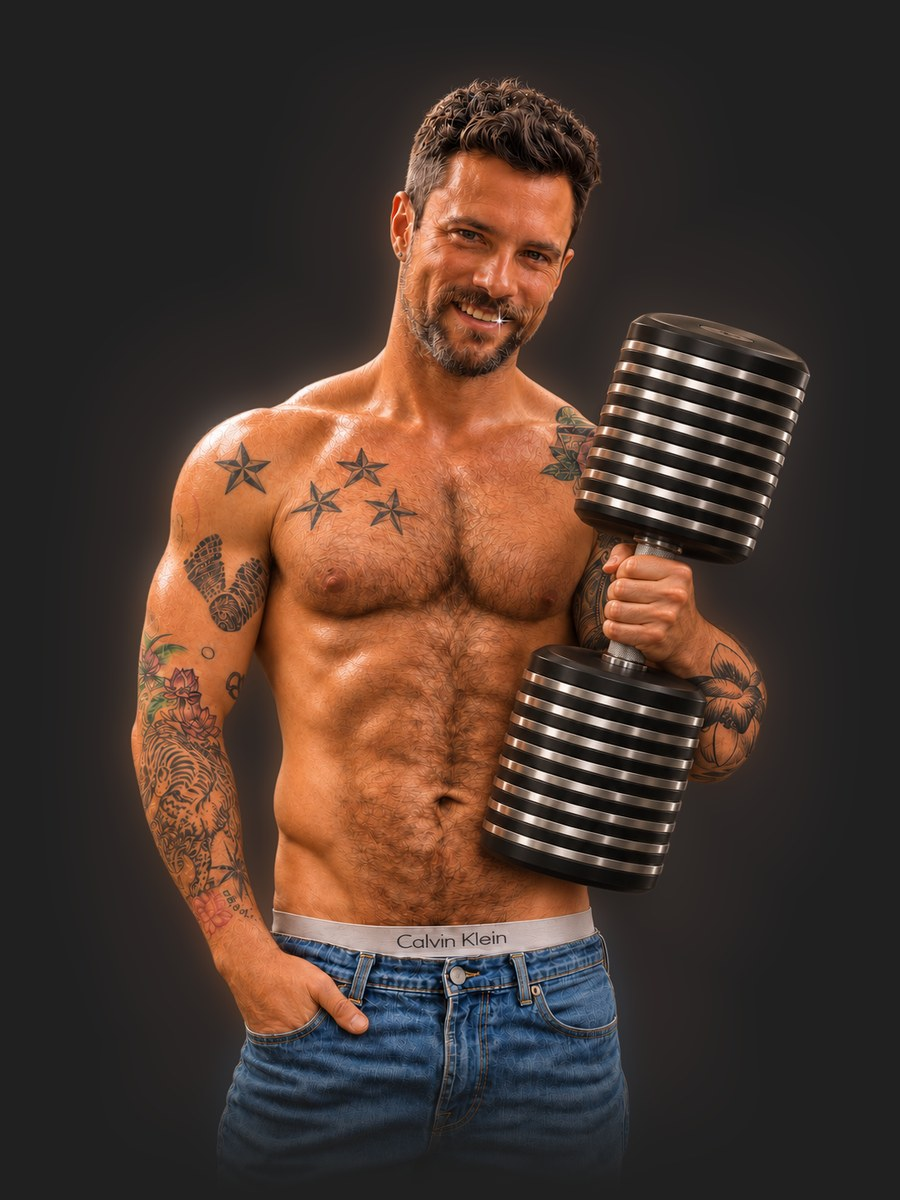
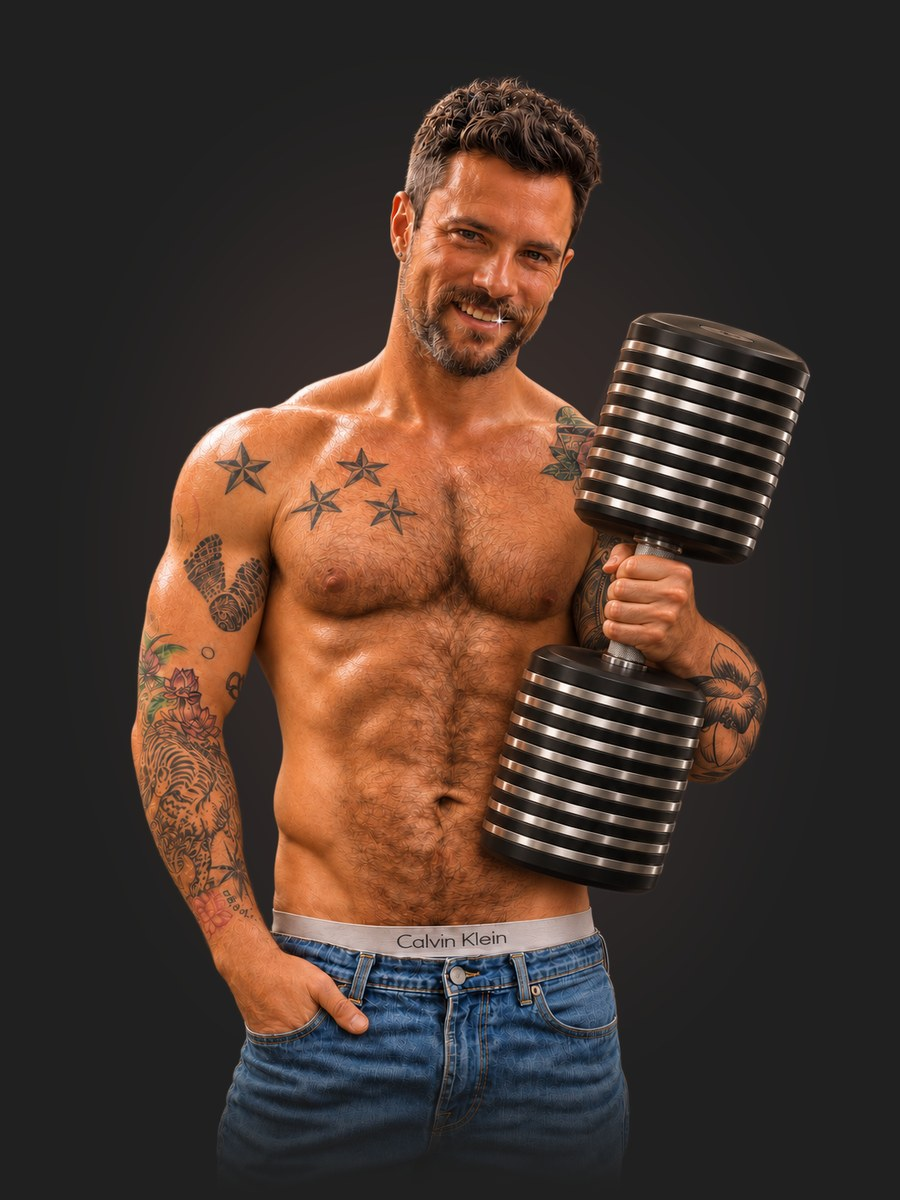
Black Card: new card design; Hero: one soft oval glow behind the photo
Black Card
- public/black-card.jpg replaces card.png in the Products section. Same frame shape as the
  old image (528:454, exported at 2x) with the card at the same size and position.
- It is a JPEG with the section colour baked in: everything except the card and its shadow
  is exactly #202020, so no box shows. card.png is no longer referenced.

Hero
- hero-aaron-jeans.jpg: the glow no longer follows the outline of the body. The studio
  backdrop now shows as one soft oval behind him that fades evenly into #202020.
  The subject and the fade at the bottom of the jeans are unchanged.

Claude-Session: https://claude.ai/code/session_01MA27UpKEFUfjS4Mxy8DgQo

diff --git a/src/components/Products.jsx b/src/components/Products.jsx
@@ -25,7 +25,7 @@ export default function Products() {
 
           <ProductCard
             imageLeft={false}
-            image={`${BASE}card.png`}
+            image={`${BASE}black-card.jpg`}
             alt="Quantum Empowerment Black Card"
             category="Empowering Product"
             title={<>The Quantum Empowerment Black <TradeMark size="lg" word="Card" gap /></>}
